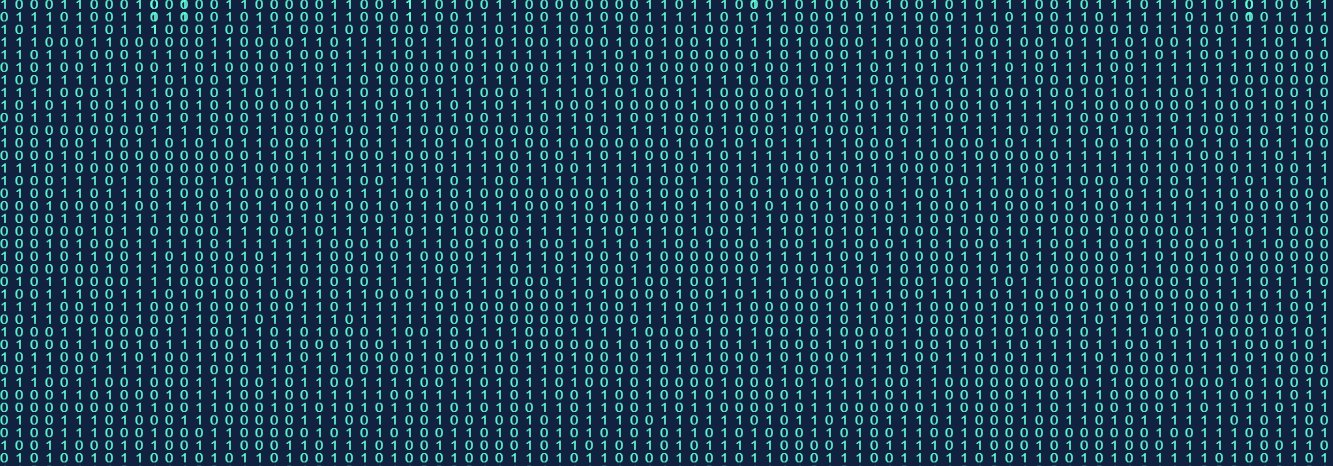
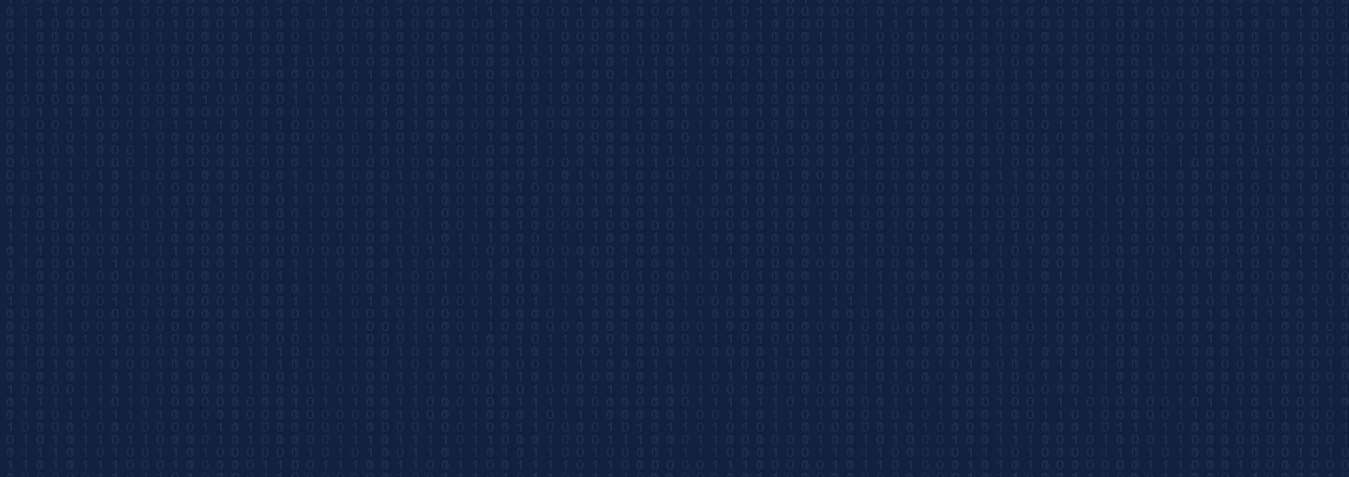
fix: change binary fall color

Changed region(s): [[0.0, 0.0, 1.0, 1.0]]

diff --git a/src/pages/Home/Home.jsx b/src/pages/Home/Home.jsx
@@ -24,7 +24,7 @@ export default function Home() {
         function draw(){
             ctx.fillStyle = "rgba(17,34,64, 0.2)";
             ctx.fillRect(0,0, c.width, c.height);
-            ctx.fillStyle="#64ffda";
+            ctx.fillStyle="#8892b0";
             ctx.font = font_size + "px arial";
             for (var i =0; i<drops.length; i++){
                 var text = binary[Math.floor(Math.random()*binary.length)]
@@ -57,7 +57,7 @@ export default function Home() {
                      <div className="folderName">{e.name}</div>
                 </Link>))}
             </div>
-                <canvas id="binary-fall"  ></canvas> 
+            <canvas id="binary-fall"  ></canvas> 
         </section>
     )
 }

diff --git a/src/pages/Home/style.scss b/src/pages/Home/style.scss
@@ -7,9 +7,9 @@
     width:100%;
     position:relative;
     overflow: hidden;
-    
+
     #binary-fall{
-        z-index: 2;
+        z-index:-1;
         position:"absolute";
         width: 100%;
         height: 100%;
@@ -52,8 +52,9 @@
         &:hover{
             transform: scale(1.3);
         }
-        .folderName{
-            color:lighten($color: $primaryColor, $amount: 10) 
+        & .folderName{
+            color:lighten($color: $primaryColor, $amount: 10);
+        
         }
     }
     #About-folder{
